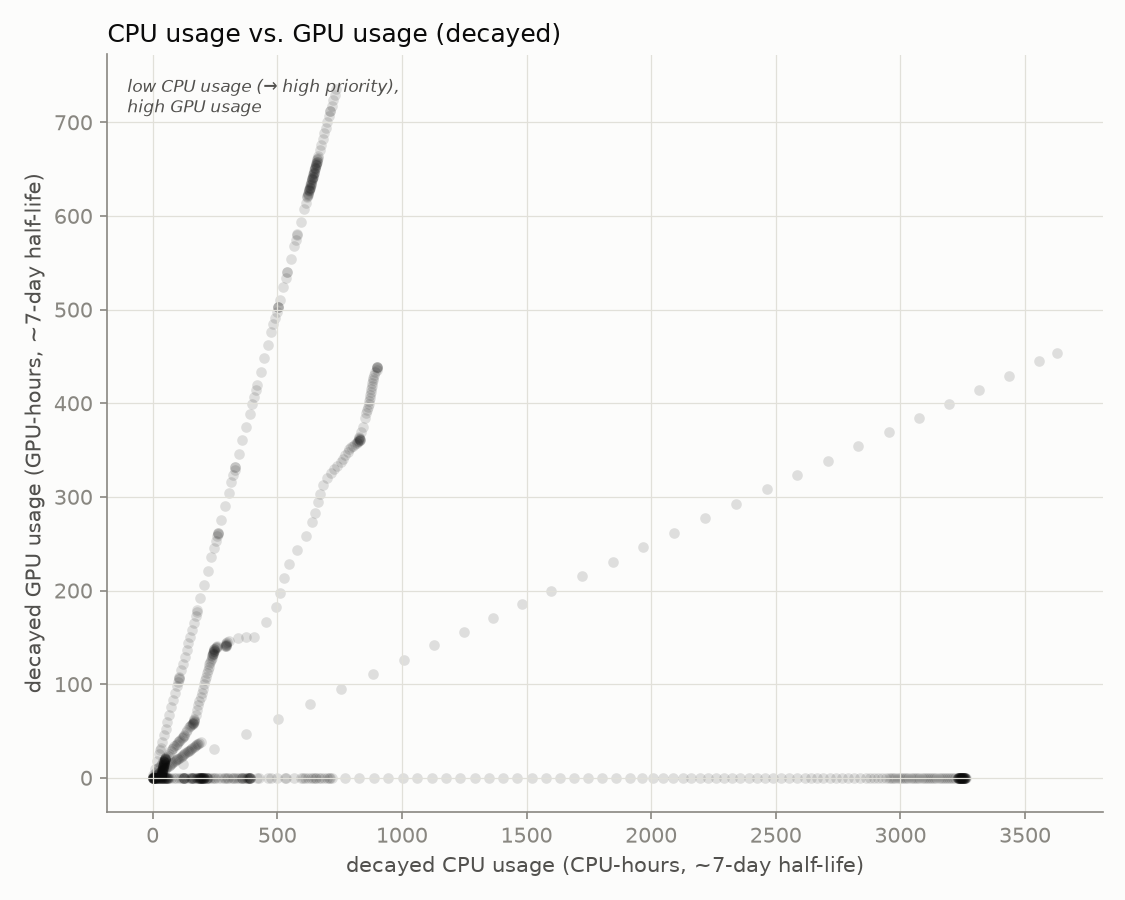
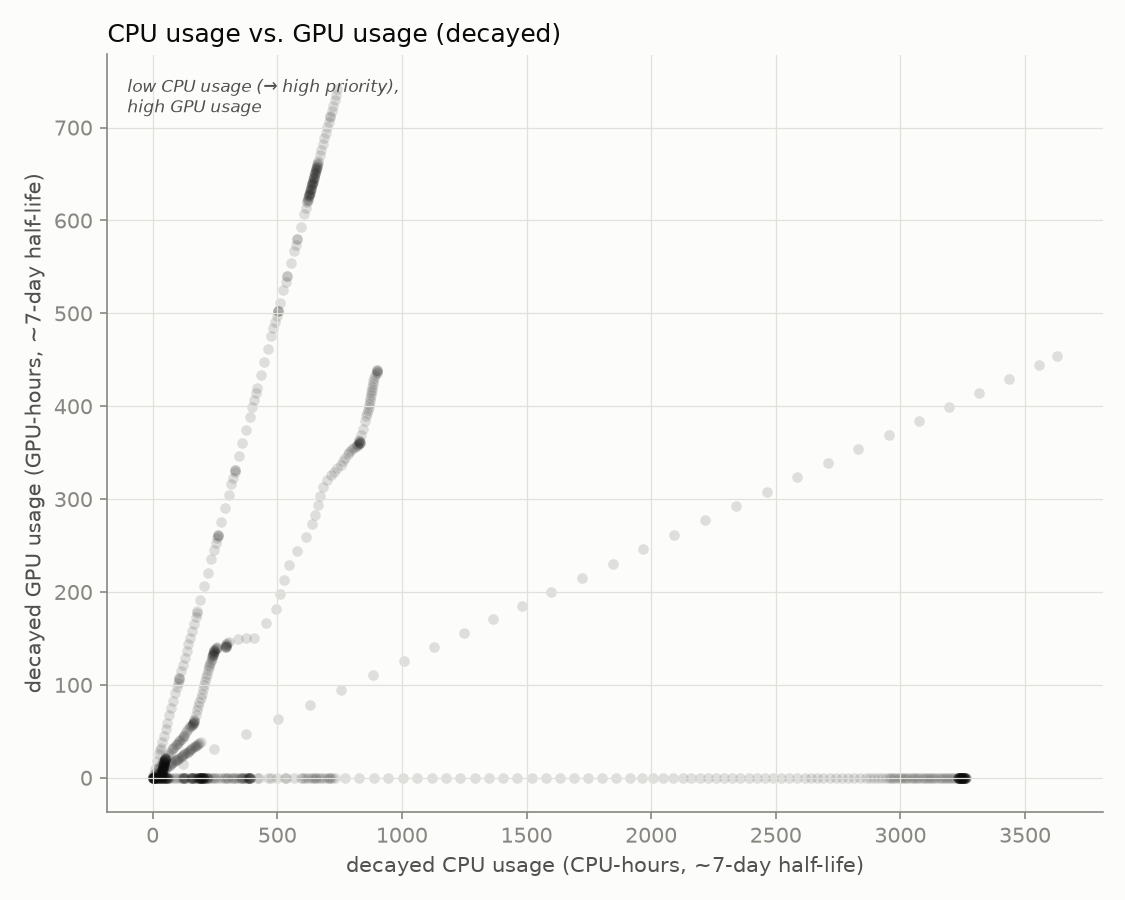
update 2026-08-08T13:00:01-07:00

diff --git a/README.md b/README.md
@@ -2,8 +2,8 @@
 
 Automated GPU/CPU/queue utilization tracker for `hopper.cluster`, updated every 30 minutes by cron. Usernames are anonymized to a stable per-account pseudonym; lab names are real.
 
-Last updated: 2026-08-08T12:30:11-07:00
-Samples: 141 queue snapshots, 141 GPU snapshots
+Last updated: 2026-08-08T13:00:10-07:00
+Samples: 142 queue snapshots, 142 GPU snapshots
 
 ## Resources
 
@@ -16,25 +16,25 @@ Samples: 141 queue snapshots, 141 GPU snapshots
 
 ## Headline
 
-- **44.6%** of the cluster's 60 GPUs allocated, averaged across all samples
-- **46.8%** average `nvidia-smi` utilization *when* a GPU is allocated to a job
+- **44.5%** of the cluster's 60 GPUs allocated, averaged across all samples
+- **46.7%** average `nvidia-smi` utilization *when* a GPU is allocated to a job
 - **88.3%** average cgroup CPU utilization *when* a CPU is allocated to a job
 
 ## Per lab / per user
 
 <table>
 <tr><th>Lab</th><th>User</th><th align='right'>GPU-hours allocated</th><th align='right'>CPU-hours allocated</th><th align='right'>GPU utilization</th></tr>
-<tr style='background-color:#d8ecd8'><td>zhuang-lab</td><td>user-0db9ced0</td><td align='right'>864.5</td><td align='right'>864.5</td><td align='right'>44%</td></tr>
+<tr style='background-color:#d8ecd8'><td>zhuang-lab</td><td>user-0db9ced0</td><td align='right'>872.0</td><td align='right'>872.0</td><td align='right'>44%</td></tr>
 <tr style='background-color:#d8efef'><td>witter-lab</td><td>user-554c620c</td><td align='right'>493.5</td><td align='right'>1019.0</td><td align='right'>68%</td></tr>
 <tr style='background-color:#d8efef'><td>witter-lab</td><td>user-d58f5a15</td><td align='right'>467.5</td><td align='right'>3740.0</td><td align='right'>9%</td></tr>
 <tr style='background-color:#fbebf1'><td>nerenberg-lab</td><td>user-6bb5f332</td><td align='right'>40.0</td><td align='right'>200.0</td><td align='right'>71%</td></tr>
 <tr style='background-color:#fbebf1'><td>nerenberg-lab</td><td>user-fedb5feb</td><td align='right'>22.5</td><td align='right'>54.0</td><td align='right'>67%</td></tr>
+<tr style='background-color:#fcf0d8'><td>ibarragarciapadilla-lab</td><td>user-dad71a72</td><td align='right'>0.0</td><td align='right'>6.0</td><td align='right'>—</td></tr>
+<tr style='background-color:#dfeaf8'><td>enkavi-lab</td><td>user-c21bdaa4</td><td align='right'>0.0</td><td align='right'>181.0</td><td align='right'>—</td></tr>
 <tr style='background-color:#fbebf1'><td>nerenberg-lab</td><td>user-b12dc074</td><td align='right'>0.0</td><td align='right'>16.0</td><td align='right'>—</td></tr>
 <tr style='background-color:#fcf0d8'><td>ibarragarciapadilla-lab</td><td>user-eec7ffae</td><td align='right'>0.0</td><td align='right'>426.5</td><td align='right'>—</td></tr>
-<tr style='background-color:#fcf0d8'><td>ibarragarciapadilla-lab</td><td>user-3cfc41a3</td><td align='right'>0.0</td><td align='right'>3982.5</td><td align='right'>—</td></tr>
-<tr style='background-color:#fce8e0'><td>gillen-lab</td><td>user-b89a87ef</td><td align='right'>0.0</td><td align='right'>744.0</td><td align='right'>—</td></tr>
-<tr style='background-color:#dfeaf8'><td>enkavi-lab</td><td>user-c21bdaa4</td><td align='right'>0.0</td><td align='right'>179.0</td><td align='right'>—</td></tr>
-<tr style='background-color:#fcf0d8'><td>ibarragarciapadilla-lab</td><td>user-dad71a72</td><td align='right'>0.0</td><td align='right'>6.0</td><td align='right'>—</td></tr>
+<tr style='background-color:#fce8e0'><td>gillen-lab</td><td>user-b89a87ef</td><td align='right'>0.0</td><td align='right'>756.0</td><td align='right'>—</td></tr>
+<tr style='background-color:#fcf0d8'><td>ibarragarciapadilla-lab</td><td>user-3cfc41a3</td><td align='right'>0.0</td><td align='right'>3990.0</td><td align='right'>—</td></tr>
 </table>
 
 ## Usage over time
@@ -45,7 +45,7 @@ Samples: 141 queue snapshots, 141 GPU snapshots
 
 Solid = utilized by lab, hatched = allocated but idle, gray = usage not traceable to a lab, dashed line = cluster capacity.
 
-Attribution combines `nvidia-smi`'s process listing with Slurm's GPU-to-job binding record; the latter caught **2706** readings the former missed.
+Attribution combines `nvidia-smi`'s process listing with Slurm's GPU-to-job binding record; the latter caught **2717** readings the former missed.
 
 ## Queue
 
@@ -57,13 +57,13 @@ Attribution combines `nvidia-smi`'s process listing with Slurm's GPU-to-job bind
 
 ![CPU usage vs GPU usage, decayed](assets/cpu_gpu_usage.png)
 
-One point per user per snapshot (n=678), usage decayed on Slurm's ~7-day fairshare half-life.
+One point per user per snapshot (n=682), usage decayed on Slurm's ~7-day fairshare half-life.
 
 **GPU usage doesn't count toward priority on this cluster** (`TRESBillingWeights`/`PriorityWeightTRES` unset) - watch the **upper-left**: low CPU usage (high priority) with high GPU usage.
 
 ## Recommendations
 
-1. **Weight GPU usage in fairshare.** `TRESBillingWeights` and `PriorityWeightTRES` are both unset right now, so Slurm's fairshare score only sees CPU-seconds - a job holding 4 idle L40S GPUs costs nothing in priority as long as it isn't also holding CPUs. That's the exact failure mode the scatter above is built to catch (upper-left: low CPU usage, high GPU usage). Fix: `scontrol update partition=main TRESBillingWeights=CPU=1.0,GRES/gpu=<weight>` (or set `PriorityWeightTRES` cluster-wide), then `scontrol reconfigure` - a full `slurmctld` restart also works but drops in-flight priority state. A reasonable starting point for `<weight>` is the CPUs-per-GPU ratio on a GPU node (128 CPUs / 4 GPUs = 32), so one GPU costs as much fairshare as the CPU share it displaces; tune from there against next week's headline numbers (44.6% allocated, 46.8% utilized when allocated, as of this snapshot). The weight value itself is a policy call - loop in whoever owns cluster allocation policy before changing it.
+1. **Weight GPU usage in fairshare.** `TRESBillingWeights` and `PriorityWeightTRES` are both unset right now, so Slurm's fairshare score only sees CPU-seconds - a job holding 4 idle L40S GPUs costs nothing in priority as long as it isn't also holding CPUs. That's the exact failure mode the scatter above is built to catch (upper-left: low CPU usage, high GPU usage). Fix: `scontrol update partition=main TRESBillingWeights=CPU=1.0,GRES/gpu=<weight>` (or set `PriorityWeightTRES` cluster-wide), then `scontrol reconfigure` - a full `slurmctld` restart also works but drops in-flight priority state. A reasonable starting point for `<weight>` is the CPUs-per-GPU ratio on a GPU node (128 CPUs / 4 GPUs = 32), so one GPU costs as much fairshare as the CPU share it displaces; tune from there against next week's headline numbers (44.5% allocated, 46.7% utilized when allocated, as of this snapshot). The weight value itself is a policy call - loop in whoever owns cluster allocation policy before changing it.
 
 2. **Escalate on sustained low utilization** (see table and scatter above). Right now the clearest candidate is `user-d58f5a15` in `witter-lab`: 467.5 GPU-hours allocated at 9% average utilization, i.e. roughly 424 GPU-hours that sat idle instead of going to someone in the queue. Turning that into an automated escalation needs two decisions made up front: a utilization threshold (something like under 20% mean utilization over at least 50 allocated GPU-hours is a defensible starting bar - loose enough to skip short debugging runs, tight enough to catch parked allocations) and a grace period (how many consecutive low-utilization snapshots before it counts as "sustained" rather than a momentary lull between batches). Once those are set, the mechanism can be either soft (a bot that reads `data/gpu_samples.jsonl` and reminds the user/lab by email or Slack) or hard (a Slurm-side QOS penalty, e.g. `sacctmgr modify qos <qos> set Priority-=<n>`, applied after N consecutive offending snapshots). Neither exists yet - today the table and scatter above are a read-only signal, not an enforced policy.
 
